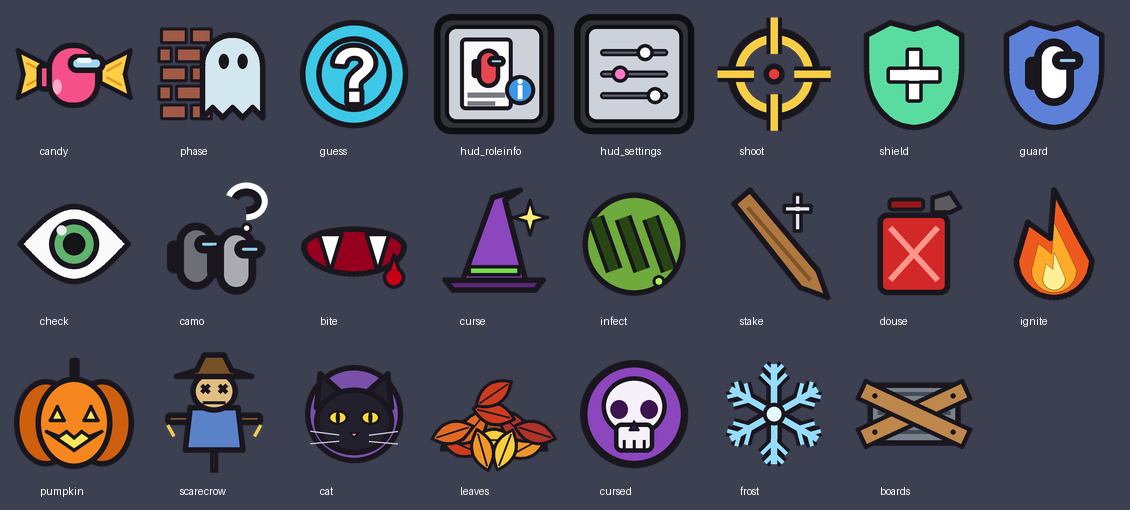
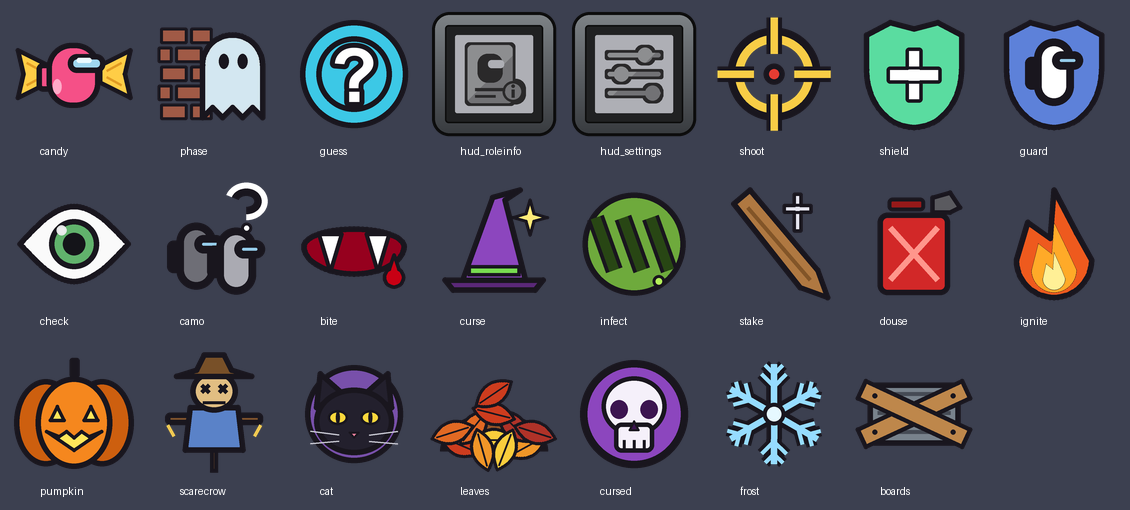
HUD-Knöpfe im Spielstil, Konsole aus, Spielende-Übersicht mit Rollen und Kills

Changed region(s): [[0.3717, 0.0, 0.6195, 0.2647]]

diff --git a/Core/EndSummary.cs b/Core/EndSummary.cs
@@ -1,0 +1,148 @@
+using System.Collections.Generic;
+using System.Linq;
+using AmongUs.GameOptions;
+using HarmonyLib;
+using TMPro;
+using UnityEngine;
+
+namespace Spieleabend.Core;
+
+/// <summary>
+/// Spielende-Uebersicht (wie in bekannten Rollenmods): links auf dem Ergebnis-Bildschirm steht fuer jeden Spieler,
+/// welche Rolle(n) er hatte, wie viele Kills er gemacht hat und ob er ueberlebt hat.
+/// </summary>
+internal static class EndSummary
+{
+    private sealed class Entry
+    {
+        public string Name;
+        public string Roles;
+        public int Kills;
+        public bool Alive;
+        public bool Impostor;
+    }
+
+    private static readonly Dictionary<byte, int> kills = new();
+    private static readonly List<Entry> entries = new();
+
+    /// <summary>Waehrend der Runde (alle Clients): Kill mitzaehlen. Selbst-Kills (Fehlschuss, Biss) zaehlen nicht.</summary>
+    internal static void OnDeath(PlayerControl victim, PlayerControl killer, DeathCause cause)
+    {
+        if (!killer || killer == victim || cause == DeathCause.Exile) return;
+        kills.TryGetValue(killer.PlayerId, out int n);
+        kills[killer.PlayerId] = n + 1;
+    }
+
+    internal static void ResetKills() => kills.Clear();
+
+    /// <summary>Beim Spielende, solange Rollen und Spieler noch da sind.</summary>
+    internal static void Capture()
+    {
+        entries.Clear();
+        if (!GameData.Instance) return;
+        foreach (var info in GameData.Instance.AllPlayers)
+        {
+            if (info == null || info.Disconnected && info.Object == null) continue;
+            var p = info.Object;
+            kills.TryGetValue(info.PlayerId, out int k);
+            entries.Add(new Entry
+            {
+                Name = ColoredName(info),
+                Roles = RolesOf(p, info),
+                Kills = k,
+                Alive = !info.IsDead && !info.Disconnected,
+                Impostor = RoleWasImpostor(info),
+            });
+        }
+        // Impostor zuerst, dann nach Kills
+        entries.Sort((a, b) => a.Impostor != b.Impostor ? (a.Impostor ? -1 : 1) : b.Kills.CompareTo(a.Kills));
+        kills.Clear();
+    }
+
+    private static string ColoredName(NetworkedPlayerInfo info)
+    {
+        var colors = Palette.PlayerColors;
+        int id = info.DefaultOutfit != null ? info.DefaultOutfit.ColorId : 0;
+        var c = id >= 0 && id < colors.Length ? (Color)colors[id] : Color.white;
+        return $"<color=#{ColorUtility.ToHtmlStringRGB(c)}>{info.PlayerName}</color>";
+    }
+
+    private static bool RoleWasImpostor(NetworkedPlayerInfo info)
+    {
+        var type = info.RoleWhenAlive.HasValue ? info.RoleWhenAlive.Value : info.Role ? info.Role.Role : RoleTypes.Crewmate;
+        var role = RoleManager.Instance ? RoleManager.Instance.GetRole(type) : null;
+        return role ? role.IsImpostor : info.Role && info.Role.IsImpostor;
+    }
+
+    /// <summary>Alle Rollen ehrlich auflisten - auch geheime (Verraeter) und die Geisterrolle.</summary>
+    private static string RolesOf(PlayerControl p, NetworkedPlayerInfo info)
+    {
+        var parts = new List<string>();
+        var main = p ? RoleRegistry.GetRole(p) : null;
+        if (main != null) parts.Add(main.ColoredName);
+        else
+        {
+            var type = info.RoleWhenAlive.HasValue ? info.RoleWhenAlive.Value : info.Role ? info.Role.Role : RoleTypes.Crewmate;
+            var vanilla = RoleManager.Instance ? RoleManager.Instance.GetRole(type) : null;
+            bool imp = vanilla ? vanilla.IsImpostor : false;
+            string name = vanilla ? vanilla.NiceName : type.ToString();
+            parts.Add($"<color={(imp ? "#FF1919" : "#8CFFFF")}>{name}</color>");
+        }
+        if (p)
+            foreach (var extra in RoleRegistry.GetModifiers(p))
+                parts.Add(extra.IsGhostRole ? $"{extra.ColoredName} <size=80%>({Lang.T("Geist", "ghost")})</size>" : extra.ColoredName);
+        return string.Join(" + ", parts);
+    }
+
+    /// <summary>Text links auf dem Ergebnis-Bildschirm.</summary>
+    internal static void Show(EndGameManager manager)
+    {
+        if (entries.Count == 0 || !manager || !manager.WinText || !Camera.main) return;
+
+        var go = Object.Instantiate(manager.WinText.gameObject, manager.transform);
+        go.name = "Spieleabend_EndSummary";
+        foreach (var c in go.GetComponents<MonoBehaviour>())
+            if (!c.TryCast<TextMeshPro>()) Object.Destroy(c); // Animationen des Siegtexts entfernen
+        var tmp = go.GetComponent<TextMeshPro>();
+
+        var lines = new List<string> { $"<b>{Lang.T("Rollen dieser Runde", "Roles this game")}</b>" };
+        foreach (var e in entries)
+        {
+            string status = e.Alive ? "" : " <color=#AAAAAA>†</color>";
+            string killText = e.Kills > 0 ? $"  <color=#FF6666>{e.Kills} {(e.Kills == 1 ? "Kill" : "Kills")}</color>" : "";
+            lines.Add($"{e.Name}{status}  -  {e.Roles}{killText}");
+        }
+        tmp.text = string.Join("\n", lines);
+        tmp.color = Color.white;
+        tmp.enableAutoSizing = false;
+        tmp.enableWordWrapping = false;
+        tmp.alignment = TextAlignmentOptions.TopLeft;
+        tmp.fontSize = 2.2f;
+
+        // Oben links, etwas unter dem Rand
+        var cam = Camera.main;
+        Vector3 topLeft = cam.ViewportToWorldPoint(new Vector3(0.02f, 0.96f, 0f));
+        tmp.rectTransform.pivot = new Vector2(0f, 1f);
+        tmp.rectTransform.sizeDelta = new Vector2(30f, 20f);
+        go.transform.localScale = Vector3.one;
+        go.transform.rotation = Quaternion.identity;
+        go.transform.position = new Vector3(topLeft.x, topLeft.y, manager.WinText.transform.position.z);
+        go.SetActive(true);
+    }
+}
+
+[HarmonyPatch(typeof(AmongUsClient), nameof(AmongUsClient.OnGameEnd))]
+internal static class EndSummaryCapturePatch
+{
+    public static void Prefix() => EndSummary.Capture();
+}
+
+[HarmonyPatch(typeof(EndGameManager), nameof(EndGameManager.SetEverythingUp))]
+internal static class EndSummaryShowPatch
+{
+    public static void Postfix(EndGameManager __instance)
+    {
+        try { EndSummary.Show(__instance); }
+        catch (System.Exception e) { Plugin.Logger.LogWarning($"Spielende-Uebersicht: {e.Message}"); }
+    }
+}

diff --git a/Assets/make_icons.py b/Assets/make_icons.py
@@ -241,34 +241,91 @@ def icon_guess():
     return img
 
 
-def hud_frame(d):
-    """Rahmen wie die runden Knoepfe oben rechts im Spiel (dunkler Rand, grauer Innenteil)."""
-    d.rounded_rectangle((16, 16, S - 16, S - 16), 70, fill=(48, 50, 56, 255), outline=(15, 15, 18, 255), width=26)
-    d.rounded_rectangle((60, 60, S - 60, S - 60), 46, fill=(205, 210, 218, 255), outline=(15, 15, 18, 255), width=16)
+# ---------- Knoepfe oben rechts: wie die Original-Knoepfe (Zahnrad, Karte ...) ----------
+# Farben aus einem Screenshot des Spiels abgemessen: grauer Rahmen mit Verlauf, dunkle Kante, hellgraues Feld,
+# Symbol zweifarbig grau (oben links heller) mit dunkler Kontur.
+HUD_RIM_TOP = (128, 133, 137)
+HUD_RIM_BOTTOM = (54, 57, 61)
+HUD_EDGE = (12, 12, 12)
+HUD_BEVEL = (32, 33, 34)
+HUD_PANEL = (174, 175, 181)
+HUD_GLYPH_LIGHT = (141, 142, 144)
+HUD_GLYPH_DARK = (114, 114, 117)
+HUD_GLYPH_LINE = (42, 41, 42)
+
+
+def hud_button():
+    """Leerer Knopf im Stil des Spiels."""
+    from PIL import ImageFilter  # noqa: F401
+    img = Image.new("RGBA", (S, S), (0, 0, 0, 0))
+    # Rahmen mit senkrechtem Verlauf (oben hell, unten dunkel)
+    grad = Image.new("RGBA", (S, S))
+    gd = ImageDraw.Draw(grad)
+    for y in range(S):
+        t = y / (S - 1)
+        c = tuple(int(HUD_RIM_TOP[i] + (HUD_RIM_BOTTOM[i] - HUD_RIM_TOP[i]) * t) for i in range(3)) + (255,)
+        gd.line((0, y, S, y), fill=c)
+    mask = Image.new("L", (S, S), 0)
+    ImageDraw.Draw(mask).rounded_rectangle((8, 8, S - 8, S - 8), 70, fill=255)
+    img.paste(grad, (0, 0), mask)
+    d = ImageDraw.Draw(img)
+    d.rounded_rectangle((8, 8, S - 8, S - 8), 70, outline=HUD_EDGE, width=12)
+    d.rounded_rectangle((60, 60, S - 60, S - 60), 14, fill=HUD_BEVEL, outline=HUD_EDGE, width=6)
+    d.rounded_rectangle((100, 100, S - 100, S - 100), 8, fill=HUD_PANEL)
+    return img
+
+
+def hud_glyph(img, draw_mask, details=None):
+    """Symbol zweifarbig (diagonal geteilt) mit dunkler Kontur auf den Knopf zeichnen."""
+    from PIL import ImageFilter
+    mask = Image.new("L", (S, S), 0)
+    draw_mask(ImageDraw.Draw(mask))
+    outline = mask.filter(ImageFilter.MaxFilter(23))
+    img.paste(Image.new("RGBA", (S, S), HUD_GLYPH_LINE + (255,)), (0, 0), outline)
+    two = Image.new("RGBA", (S, S), HUD_GLYPH_DARK + (255,))
+    light = Image.new("L", (S, S), 0)
+    ImageDraw.Draw(light).polygon([(0, 0), (S, 0), (0, S)], fill=255)
+    two.paste(Image.new("RGBA", (S, S), HUD_GLYPH_LIGHT + (255,)), (0, 0), light)
+    img.paste(two, (0, 0), mask)
+    if details:
+        details(ImageDraw.Draw(img))
+    return img
 
 
 def icon_hud_roleinfo():
-    img, d = canvas()
-    hud_frame(d)
-    # Rollenkarte mit Crewmate und "i"
-    d.rounded_rectangle((120, 110, 330, 400), 22, fill=(250, 250, 250, 255), outline=OUTLINE, width=16)
-    crewmate(d, 225, 230, 0.85, (230, 70, 80, 255))
-    d.rectangle((150, 330, 300, 350), fill=(120, 120, 130, 255))
-    d.rectangle((150, 365, 260, 382), fill=(120, 120, 130, 255))
-    ellipse(d, (300, 260, 420, 380), (60, 150, 230, 255), 16)
-    d.rectangle((351, 300, 369, 355), fill=(255, 255, 255, 255))
-    d.ellipse((350, 275, 370, 295), fill=(255, 255, 255, 255))
-    return img
+    """Rollenkarte (Ausweis mit Crewmate) und ein kleines i."""
+    img = hud_button()
+    c = S / 2
+
+    def shape(m):
+        m.rounded_rectangle((150, 140, 330, 372), 18, fill=255)       # Karte
+        m.ellipse((292, 286, 372, 366), fill=255)                      # i-Kreis
+
+    def details(d):
+        # Crewmate auf der Karte
+        d.rounded_rectangle((190, 175, 290, 290), 40, fill=HUD_GLYPH_LINE)
+        d.rounded_rectangle((232, 200, 296, 232), 14, fill=HUD_PANEL)
+        d.rectangle((180, 312, 300, 324), fill=HUD_GLYPH_LINE)
+        d.rectangle((180, 340, 262, 350), fill=HUD_GLYPH_LINE)
+        # i im Kreis
+        d.ellipse((290, 284, 374, 368), outline=HUD_GLYPH_LINE, width=10)
+        d.rectangle((326, 318, 338, 350), fill=HUD_GLYPH_LINE)
+        d.ellipse((325, 297, 339, 311), fill=HUD_GLYPH_LINE)
+
+    return hud_glyph(img, shape, details)
 
 
 def icon_hud_settings():
-    img, d = canvas()
-    hud_frame(d)
-    # Regler (Schieberegler) - "Rollen-Einstellungen"
-    for k, (y, knob) in enumerate(((170, 300), (256, 200), (342, 340))):
-        d.rounded_rectangle((120, y - 14, 392, y + 14), 14, fill=(90, 95, 105, 255), outline=OUTLINE, width=10)
-        ellipse(d, (knob - 34, y - 34, knob + 34, y + 34), (255, 120, 200, 255) if k == 1 else (250, 250, 250, 255), 14)
-    return img
+    """Drei Schieberegler (Rollen-Einstellungen)."""
+    img = hud_button()
+    rows = ((180, 300), (256, 205), (332, 330))
+
+    def shape(m):
+        for y, knob in rows:
+            m.rounded_rectangle((150, y - 9, 362, y + 9), 9, fill=255)
+            m.ellipse((knob - 30, y - 30, knob + 30, y + 30), fill=255)
+
+    return hud_glyph(img, shape)
 
 
 def icon_candy():

diff --git a/Core/HudButtons.cs b/Core/HudButtons.cs
@@ -33,8 +33,8 @@ internal static class HudButtons
             infoButton.gameObject.SetActive(sourceShown && RoleRegistry.Roles.Count > 0);
             settingsButton.gameObject.SetActive(sourceShown && SettingsWindow.Available);
 
-            // Abstand zum Original-Knopf: eine Knopfbreite pro Platz
-            float spacing = ButtonWidth(source) + 0.08f;
+            // Abstand wie zwischen den Original-Knoepfen (Notizblock -> Zahnrad), sonst eine Knopfbreite
+            float spacing = Spacing(hud, sourcePos, source);
             Place(infoPos, sourcePos, spacing);
             Place(settingsPos, sourcePos, spacing * 2f);
         }
@@ -73,10 +73,24 @@ internal static class HudButtons
         return (button, go.GetComponent<AspectPosition>());
     }
 
+    private static float Spacing(HudManager hud, AspectPosition sourcePos, PassiveButton source)
+    {
+        var settingsPos = hud.SettingsButton ? hud.SettingsButton.GetComponent<AspectPosition>() : null;
+        if (sourcePos && settingsPos)
+        {
+            float d = Mathf.Abs(sourcePos.DistanceFromEdge.x - settingsPos.DistanceFromEdge.x);
+            if (d > 0.3f) return d;
+        }
+        return ButtonWidth(source) + 0.12f;
+    }
+
+    /// <summary>Breite des Knopfs = groesstes Bild darin (kleine Controller-Symbole zaehlen nicht).</summary>
     private static float ButtonWidth(PassiveButton source)
     {
-        var sr = source.GetComponentInChildren<SpriteRenderer>();
-        return sr ? sr.bounds.size.x : 0.75f;
+        float w = 0f;
+        foreach (var sr in source.GetComponentsInChildren<SpriteRenderer>())
+            if (sr && sr.sprite) w = Mathf.Max(w, sr.bounds.size.x);
+        return w > 0.1f ? w : 0.75f;
     }
 
     private static void Place(AspectPosition target, AspectPosition source, float offset)

diff --git a/Core/ConsoleHider.cs b/Core/ConsoleHider.cs
@@ -1,0 +1,44 @@
+using System;
+using System.IO;
+using System.Runtime.InteropServices;
+using System.Text.RegularExpressions;
+using BepInEx;
+
+namespace Spieleabend.Core;
+
+/// <summary>
+/// Das schwarze Konsolen-Fenster von BepInEx soll beim Spielen nicht aufgehen:
+/// sofort verstecken und in der BepInEx-Einstellung fuer die naechsten Starts abschalten.
+/// Das Protokoll (BepInEx/LogOutput.log) wird davon nicht beruehrt und weiter geschrieben.
+/// </summary>
+internal static class ConsoleHider
+{
+    [DllImport("kernel32.dll")]
+    private static extern IntPtr GetConsoleWindow();
+
+    [DllImport("user32.dll")]
+    private static extern bool ShowWindow(IntPtr hWnd, int nCmdShow);
+
+    private const int SwHide = 0;
+
+    public static void Apply()
+    {
+        try
+        {
+            var window = GetConsoleWindow();
+            if (window != IntPtr.Zero) ShowWindow(window, SwHide);
+        }
+        catch (Exception e) { Plugin.Logger.LogWarning($"Konsole verstecken: {e.Message}"); }
+
+        try
+        {
+            string cfg = Path.Combine(Paths.ConfigPath, "BepInEx.cfg");
+            if (!File.Exists(cfg)) return;
+            string text = File.ReadAllText(cfg);
+            // Nur im Abschnitt [Logging.Console] "Enabled = true" -> false
+            var fixedText = Regex.Replace(text, @"(\[Logging\.Console\][^\[]*?Enabled\s*=\s*)true", "${1}false");
+            if (fixedText != text) File.WriteAllText(cfg, fixedText);
+        }
+        catch (Exception e) { Plugin.Logger.LogWarning($"Konsole abschalten: {e.Message}"); }
+    }
+}

diff --git a/Core/RoleRegistry.cs b/Core/RoleRegistry.cs
@@ -108,6 +108,7 @@ public static class RoleRegistry
         mainRoles.Clear();
         modifiers.Clear();
         GhostRoles.Reset();
+        EndSummary.ResetKills();
         foreach (var role in Roles) role.ResetState();
 
         foreach (var (playerId, roleId) in pairs) AddInternal(playerId, roleId);

diff --git a/Core/KillSystem.cs b/Core/KillSystem.cs
@@ -91,6 +91,7 @@ public static class KillSystem
     {
         if (!victim) return;
         FirstDeathShield.OnDeath(victim, cause);
+        EndSummary.OnDeath(victim, killer, cause);
         if (RoleRegistry.HasAssignments)
         {
             foreach (var role in RoleRegistry.Roles)

diff --git a/Plugin.cs b/Plugin.cs
@@ -22,6 +22,7 @@ public class Plugin : BasePlugin
     {
         Logger = Log;
 
+        ConsoleHider.Apply();
         DataIsolation.Init();
         Lang.Bind(Config);
         FreeplayTest.BindConfig(Config);

diff --git a/README.md b/README.md
@@ -116,6 +116,14 @@ Nur wenn sich BepInEx oder der Launcher selbst ändert, braucht jeder die neue E
 
 Ohne Launcher geht es weiterhin mit `dist\AmongUsSpieleabend-<Version>.zip` und `Installieren.bat` (Anleitung in `Verteilung/LIESMICH.txt`).
 
+## Spielende-Übersicht
+
+Auf dem Ergebnis-Bildschirm steht oben links jeder Spieler mit seiner Rolle (auch Anpassungen, der geheime Verräter und Geisterrollen), seinen Kills und ob er tot ist (†). Code in `Core/EndSummary.cs`.
+
+## Fehlerprotokoll
+
+BepInEx schreibt alles in `Among Us Spieleabend/BepInEx/LogOutput.log` (wird bei jedem Start neu angelegt). Das schwarze Konsolenfenster ist abgeschaltet, das Protokoll läuft trotzdem weiter. Der Launcher schreibt nach `%TEMP%/AmongUsSpieleabend-Launcher.log`.
+
 ## Server
 
 Beim Start trägt der Mod die Modded-Server (**Modded EU**, NA, Asia) automatisch in die Serverliste ein (`Core/ServerSetup.cs`). Beim allerersten Start ist **Modded EU** gleich ausgewählt. Danach bleibt, was man selbst wählt (Weltkugel-Symbol unten rechts im Online-Menü).
